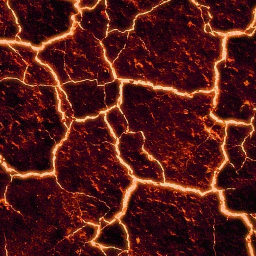
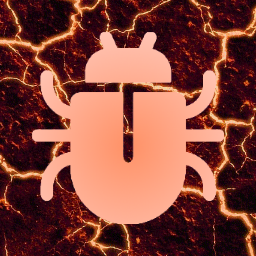
update metadata to v1.0.1

diff --git a/metadata/CHANGELOG.md b/metadata/CHANGELOG.md
@@ -1,5 +1,10 @@
 # Changelog
 
+## Version 1.0.1
+- Added website url
+- Removed auto-generated plugin info class
+- Updated icon
+
 ## Version 1.0.0
 - Initial Release
 - `/Map/Volcano/LavaField/Lava Bubbles` GameObject is disabled on level load
